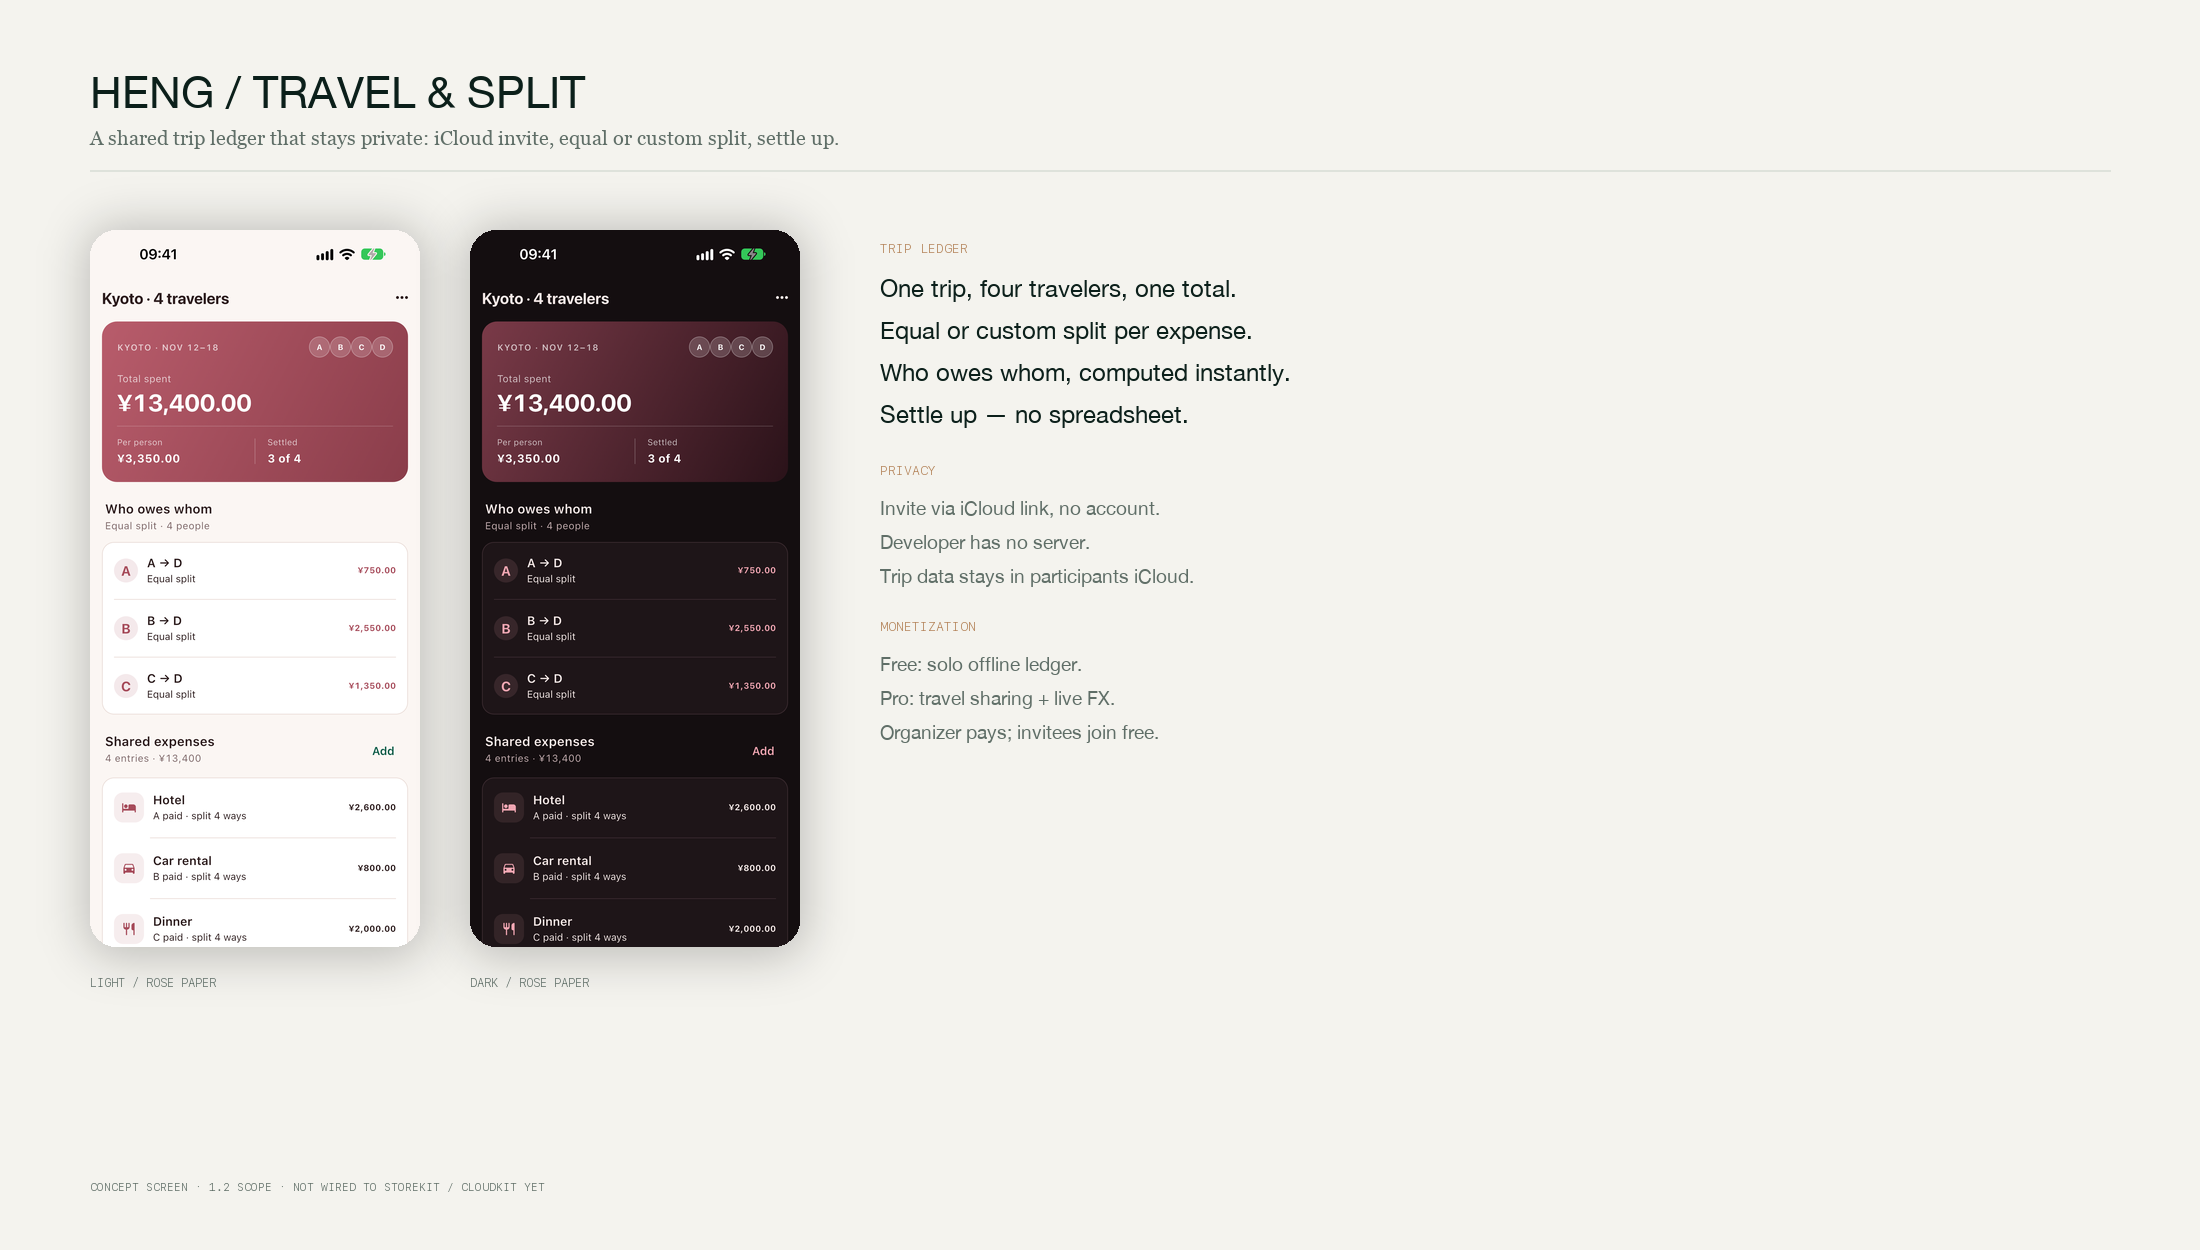
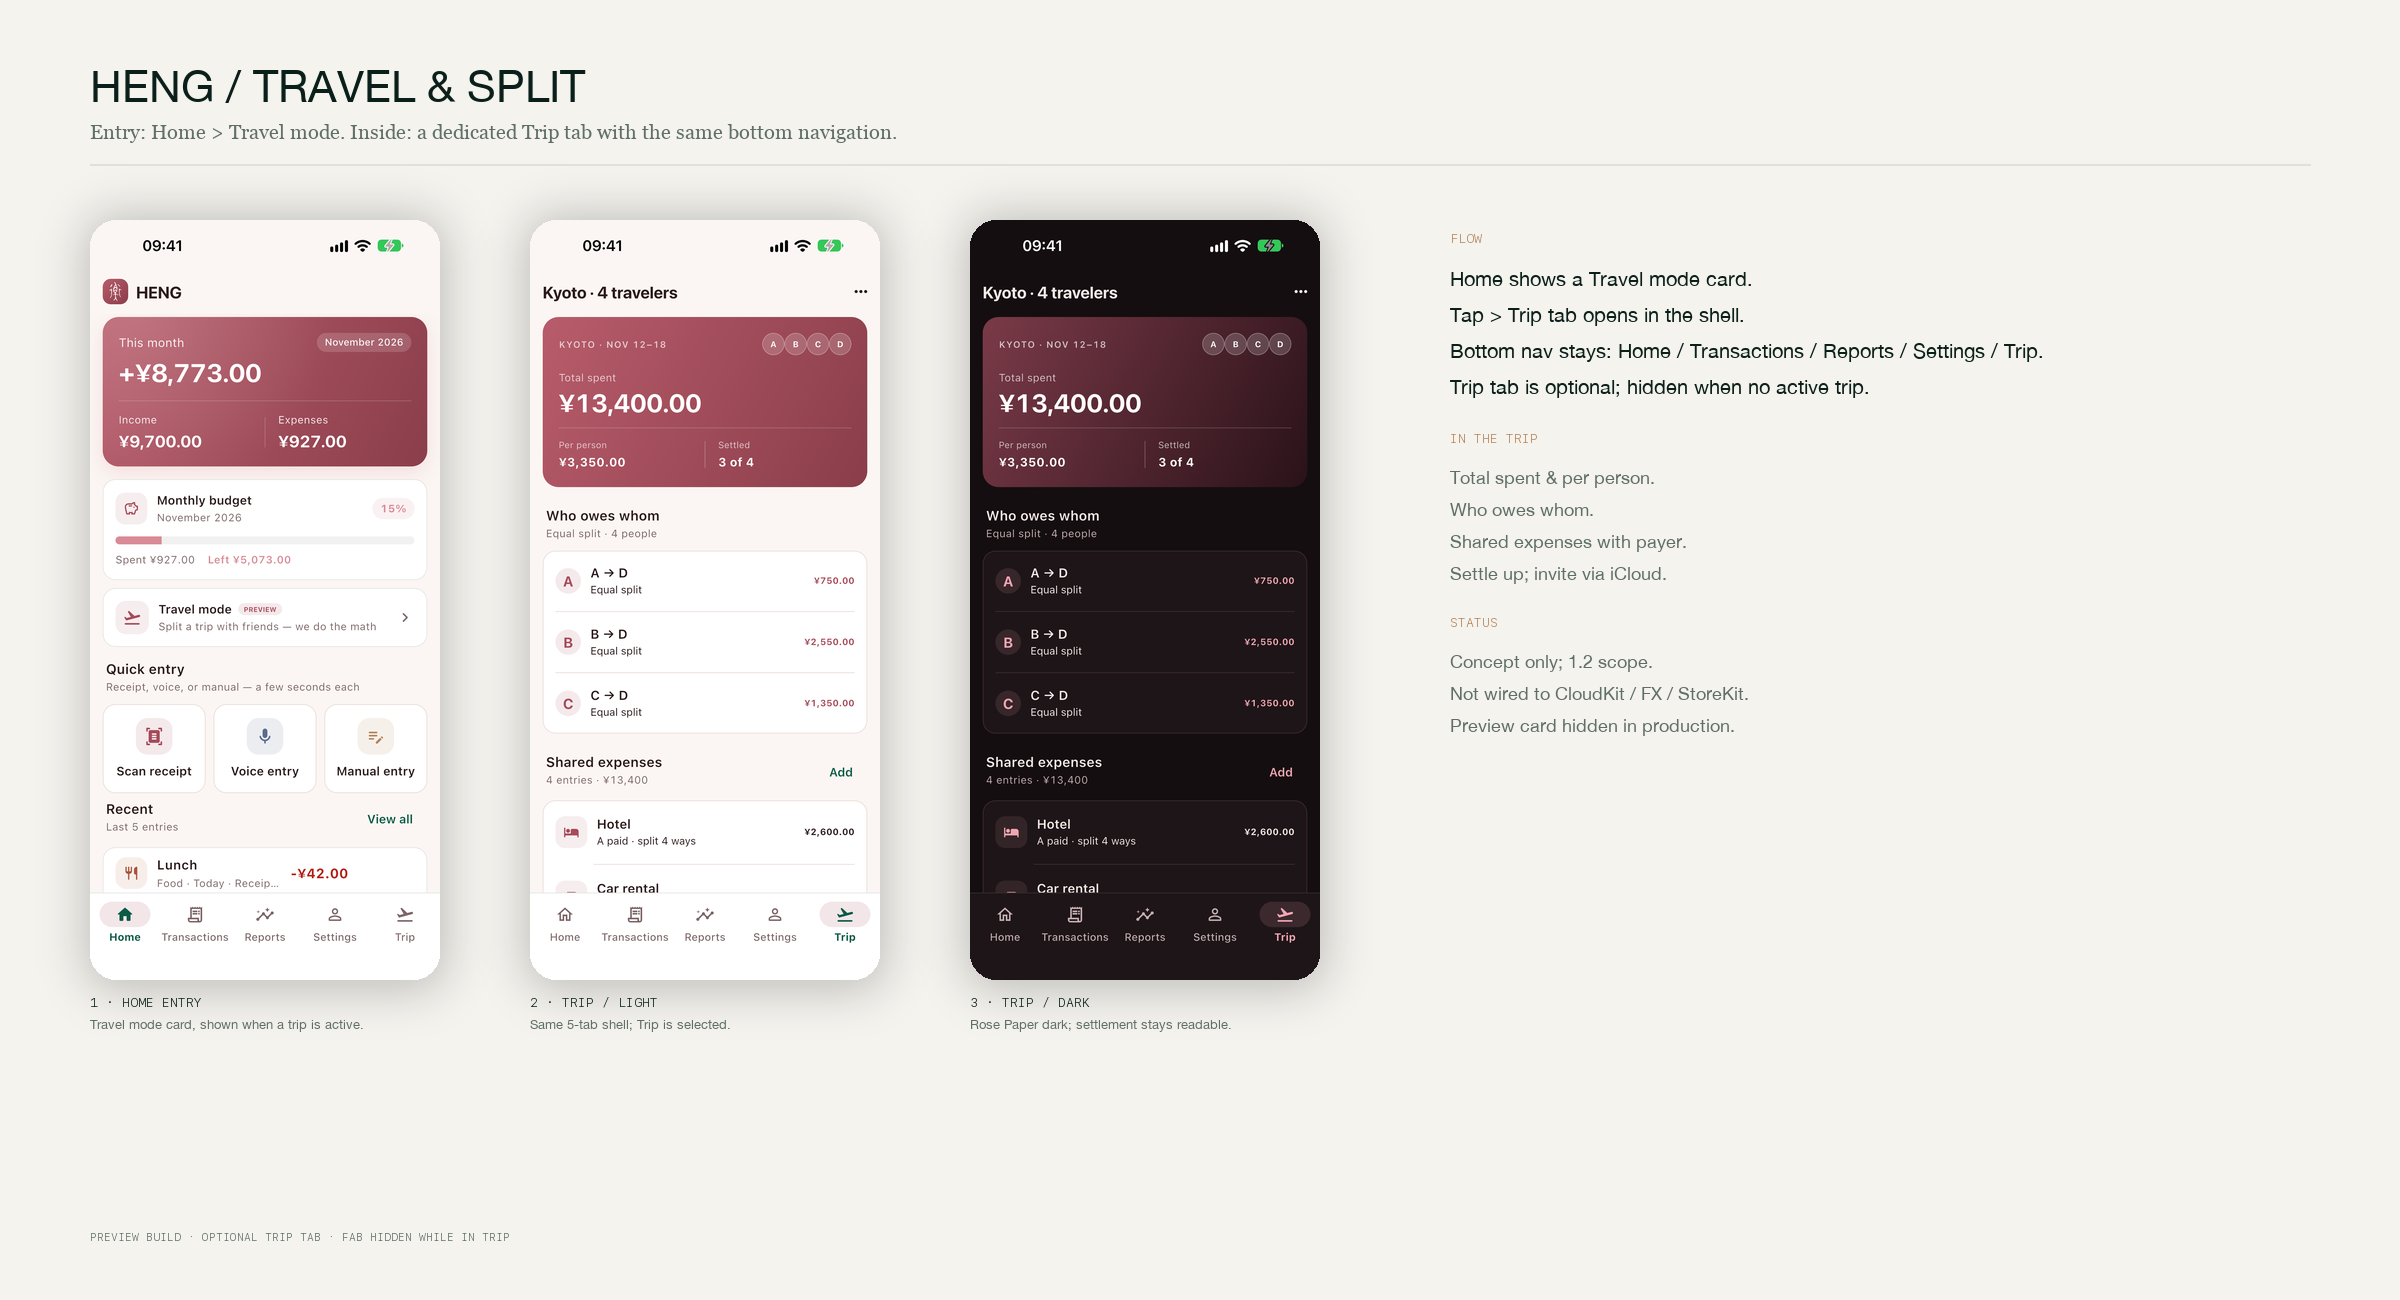
fix(travel): 增加首页 Travel mode 入口 + Trip tab 底部导航
- 首页 Preview 卡片进入旅行分账
- RootShell 支持可选 Trip tab（同一底部导航）
- 旅行概念页取消遮挡的 FAB
- 更新 travel_split 展示板（入口/亮/暗）
- 新主题 D/E/F 与女性向策略文档

diff --git a/lib/ui/screens/home_screen.dart b/lib/ui/screens/home_screen.dart
@@ -18,10 +18,13 @@ import 'transactions_screen.dart';
 
 /// 首页：本月概览、预算进度、快速记账入口、最近记录。
 class HomeScreen extends StatelessWidget {
-  const HomeScreen({super.key, this.onSeeAll});
+  const HomeScreen({super.key, this.onSeeAll, this.onOpenTrip});
 
   /// 「查看全部」回调；由 RootShell 切换到账单 Tab。为 null 时打开账单页。
   final VoidCallback? onSeeAll;
+
+  /// Demo/1.2 preview: open the optional Trip tab.
+  final VoidCallback? onOpenTrip;
 
   @override
   Widget build(BuildContext context) {
@@ -83,6 +86,72 @@ class HomeScreen extends StatelessWidget {
               onOpenBudget: () => _openBudget(context),
             ),
           ),
+          if (onOpenTrip != null) ...[
+            const SizedBox(height: 10),
+            AppCard(
+              onTap: onOpenTrip,
+              child: Row(
+                children: [
+                  Container(
+                    width: 42,
+                    height: 42,
+                    decoration: BoxDecoration(
+                      color: theme.colorScheme.primary.withValues(alpha: 0.10),
+                      borderRadius: BorderRadius.circular(13),
+                    ),
+                    child: Icon(Icons.flight_takeoff_rounded,
+                        color: theme.colorScheme.primary),
+                  ),
+                  const SizedBox(width: 12),
+                  Expanded(
+                    child: Column(
+                      crossAxisAlignment: CrossAxisAlignment.start,
+                      children: [
+                        Row(
+                          children: [
+                            Flexible(
+                              child: Text(l10n.travelMode,
+                                  style: theme.textTheme.titleSmall),
+                            ),
+                            const SizedBox(width: 8),
+                            Container(
+                              padding: const EdgeInsets.symmetric(
+                                  horizontal: 7, vertical: 2),
+                              decoration: BoxDecoration(
+                                color: theme.colorScheme.primary
+                                    .withValues(alpha: 0.12),
+                                borderRadius: BorderRadius.circular(999),
+                              ),
+                              child: Text(
+                                'PREVIEW',
+                                style: theme.textTheme.labelSmall?.copyWith(
+                                  color: theme.colorScheme.primary,
+                                  fontWeight: FontWeight.w700,
+                                  fontSize: 9,
+                                ),
+                              ),
+                            ),
+                          ],
+                        ),
+                        const SizedBox(height: 2),
+                        Text(
+                          l10n.travelModeSubtitle,
+                          maxLines: 1,
+                          overflow: TextOverflow.ellipsis,
+                          style: theme.textTheme.bodySmall?.copyWith(
+                            color: theme.colorScheme.onSurfaceVariant,
+                          ),
+                        ),
+                      ],
+                    ),
+                  ),
+                  const SizedBox(width: 8),
+                  Icon(Icons.chevron_right_rounded,
+                      color: theme.colorScheme.onSurfaceVariant),
+                ],
+              ),
+            ),
+          ],
           const SizedBox(height: 8),
           SectionHeader(
             title: l10n.quickActions,

diff --git a/lib/ui/screens/root_shell.dart b/lib/ui/screens/root_shell.dart
@@ -5,6 +5,7 @@ import '../../l10n/app_localizations.dart';
 import '../theme.dart';
 import 'add_transaction_screen.dart';
 import 'home_screen.dart';
+import 'trip_demo_screen.dart';
 import 'reports_screen.dart';
 import 'settings_screen.dart';
 import 'transactions_screen.dart';
@@ -19,6 +20,7 @@ class RootShell extends StatefulWidget {
     this.showFab = true,
     this.reportsInitialScrollOffset = 0,
     this.settingsInitialScrollOffset = 0,
+    this.includeTrip = false,
   });
 
   /// 启动时选中的 Tab（0 首页 / 1 账单 / 2 报表 / 3 我的）。
@@ -34,6 +36,9 @@ class RootShell extends StatefulWidget {
   /// 截图/演示模式用于直接定位设置页滚动位置。
   final double settingsInitialScrollOffset;
 
+  /// Demo/1.2 preview: add the optional Trip tab.
+  final bool includeTrip;
+
   @override
   State<RootShell> createState() => _RootShellState();
 }
@@ -44,7 +49,7 @@ class _RootShellState extends State<RootShell> {
   @override
   void initState() {
     super.initState();
-    _index = widget.initialIndex.clamp(0, 3).toInt();
+    _index = widget.initialIndex.clamp(0, widget.includeTrip ? 4 : 3).toInt();
   }
 
   void _selectTab(int index) {
@@ -78,10 +83,14 @@ class _RootShellState extends State<RootShell> {
       body: IndexedStack(
         index: _index,
         children: [
-          HomeScreen(onSeeAll: () => _selectTab(1)),
+          HomeScreen(
+            onSeeAll: () => _selectTab(1),
+            onOpenTrip: widget.includeTrip ? () => _selectTab(4) : null,
+          ),
           const TransactionsScreen(),
           ReportsScreen(initialScrollOffset: widget.reportsInitialScrollOffset),
           SettingsScreen(initialScrollOffset: widget.settingsInitialScrollOffset),
+          if (widget.includeTrip) const TripDemoScreen(),
         ],
       ),
       floatingActionButton: widget.showFab
@@ -128,6 +137,13 @@ class _RootShellState extends State<RootShell> {
               label: l10n.navSettings,
               tooltip: l10n.navSettings,
             ),
+            if (widget.includeTrip)
+              NavigationDestination(
+                icon: const Icon(Icons.flight_takeoff_outlined),
+                selectedIcon: const Icon(Icons.flight_takeoff_rounded),
+                label: l10n.navTrip,
+                tooltip: l10n.navTrip,
+              ),
           ],
         ),
       ),

diff --git a/lib/app.dart b/lib/app.dart
@@ -8,7 +8,6 @@ import 'l10n/app_localizations.dart';
 import 'ui/brand_intro.dart';
 import 'ui/screens/add_transaction_screen.dart';
 import 'ui/screens/budget_screen.dart';
-import 'ui/screens/trip_demo_screen.dart';
 import 'ui/screens/onboarding_screen.dart';
 import 'ui/screens/root_shell.dart';
 import 'ui/theme.dart';
@@ -109,7 +108,9 @@ class LedgerApp extends StatelessWidget {
       case 'budget':
         return const BudgetScreen();
       case 'trip':
-        return const TripDemoScreen();
+        return const RootShell(initialIndex: 4, includeTrip: true, showFab: false);
+      case 'home_trip':
+        return const RootShell(includeTrip: true, showFab: false);
       case 'add':
         return const AddTransactionScreen();
       case 'add_receipt':

diff --git a/lib/l10n/app_localizations_zh.dart b/lib/l10n/app_localizations_zh.dart
@@ -1301,6 +1301,15 @@ class AppLocalizationsZh extends AppLocalizations {
 
   @override
   String get themeLavender => 'F 薰衣草';
+
+  @override
+  String get navTrip => '旅行';
+
+  @override
+  String get travelMode => '旅行分账';
+
+  @override
+  String get travelModeSubtitle => '和朋友一起记旅行账，自动算谁欠谁';
 }
 
 /// The translations for Chinese, using the Han script (`zh_Hant`).
@@ -2600,4 +2609,13 @@ class AppLocalizationsZhHant extends AppLocalizationsZh {
 
   @override
   String get themeLavender => 'F 薰衣草';
+
+  @override
+  String get navTrip => '旅行';
+
+  @override
+  String get travelMode => '旅行分帳';
+
+  @override
+  String get travelModeSubtitle => '和朋友一起記旅行帳，自動算誰欠誰';
 }

diff --git a/lib/l10n/app_localizations.dart b/lib/l10n/app_localizations.dart
@@ -2395,6 +2395,24 @@ abstract class AppLocalizations {
   /// In zh, this message translates to:
   /// **'F 薰衣草'**
   String get themeLavender;
+
+  /// No description provided for @navTrip.
+  ///
+  /// In zh, this message translates to:
+  /// **'旅行'**
+  String get navTrip;
+
+  /// No description provided for @travelMode.
+  ///
+  /// In zh, this message translates to:
+  /// **'旅行分账'**
+  String get travelMode;
+
+  /// No description provided for @travelModeSubtitle.
+  ///
+  /// In zh, this message translates to:
+  /// **'和朋友一起记旅行账，自动算谁欠谁'**
+  String get travelModeSubtitle;
 }
 
 class _AppLocalizationsDelegate

diff --git a/lib/l10n/app_localizations_ru.dart b/lib/l10n/app_localizations_ru.dart
@@ -1352,4 +1352,13 @@ class AppLocalizationsRu extends AppLocalizations {
 
   @override
   String get themeLavender => 'F Лаванда';
+
+  @override
+  String get navTrip => 'Поездка';
+
+  @override
+  String get travelMode => 'Режим поездки';
+
+  @override
+  String get travelModeSubtitle => 'Общие расходы в поездке — расчёты за вас';
 }

diff --git a/lib/l10n/app_localizations_en.dart b/lib/l10n/app_localizations_en.dart
@@ -1349,4 +1349,13 @@ class AppLocalizationsEn extends AppLocalizations {
 
   @override
   String get themeLavender => 'F Lavender';
+
+  @override
+  String get navTrip => 'Trip';
+
+  @override
+  String get travelMode => 'Travel mode';
+
+  @override
+  String get travelModeSubtitle => 'Split a trip with friends — we do the math';
 }

diff --git a/docs/PROJECT_STATE.md b/docs/PROJECT_STATE.md
@@ -263,7 +263,9 @@
 - 主题展示：`store/marketing/brand/final/showcase/themes_light_dark.png`（A 免费，B/C 计划 Pro）
 - 无障碍：`showcase/accessibility_audit.png` + `docs/ACCESSIBILITY_AUDIT.md`
 - 主题研究：`docs/THEME_STRATEGY.md`（女性向 D/E/F；建议上架 3 套：D 免费 + E/F Pro；A/B/C 可作 Classic）
-- 旅行分账概念页：`lib/ui/screens/trip_demo_screen.dart` + `DEMO_SCREEN=trip`（1.2 才接数据/CloudKit）；展示图 `showcase/travel_split.png`。
+- 旅行分账概念页：`lib/ui/screens/trip_demo_screen.dart` + `DEMO_SCREEN=trip`（1.2 才接数据/CloudKit）。
+- 入口已做 Preview：首页 Travel mode 卡片；进入后可选 Trip tab（同一底部导航，5 项）；展示图 `showcase/travel_split.png`。
+- PREVIEW 入口只在 includeTrip/DEMO 模式出现，正式用户不可见。
 - TestFlight 1.1.0 (14) 已挂组；1.0 仍 WAITING_FOR_REVIEW。
 
 ## 下一步
